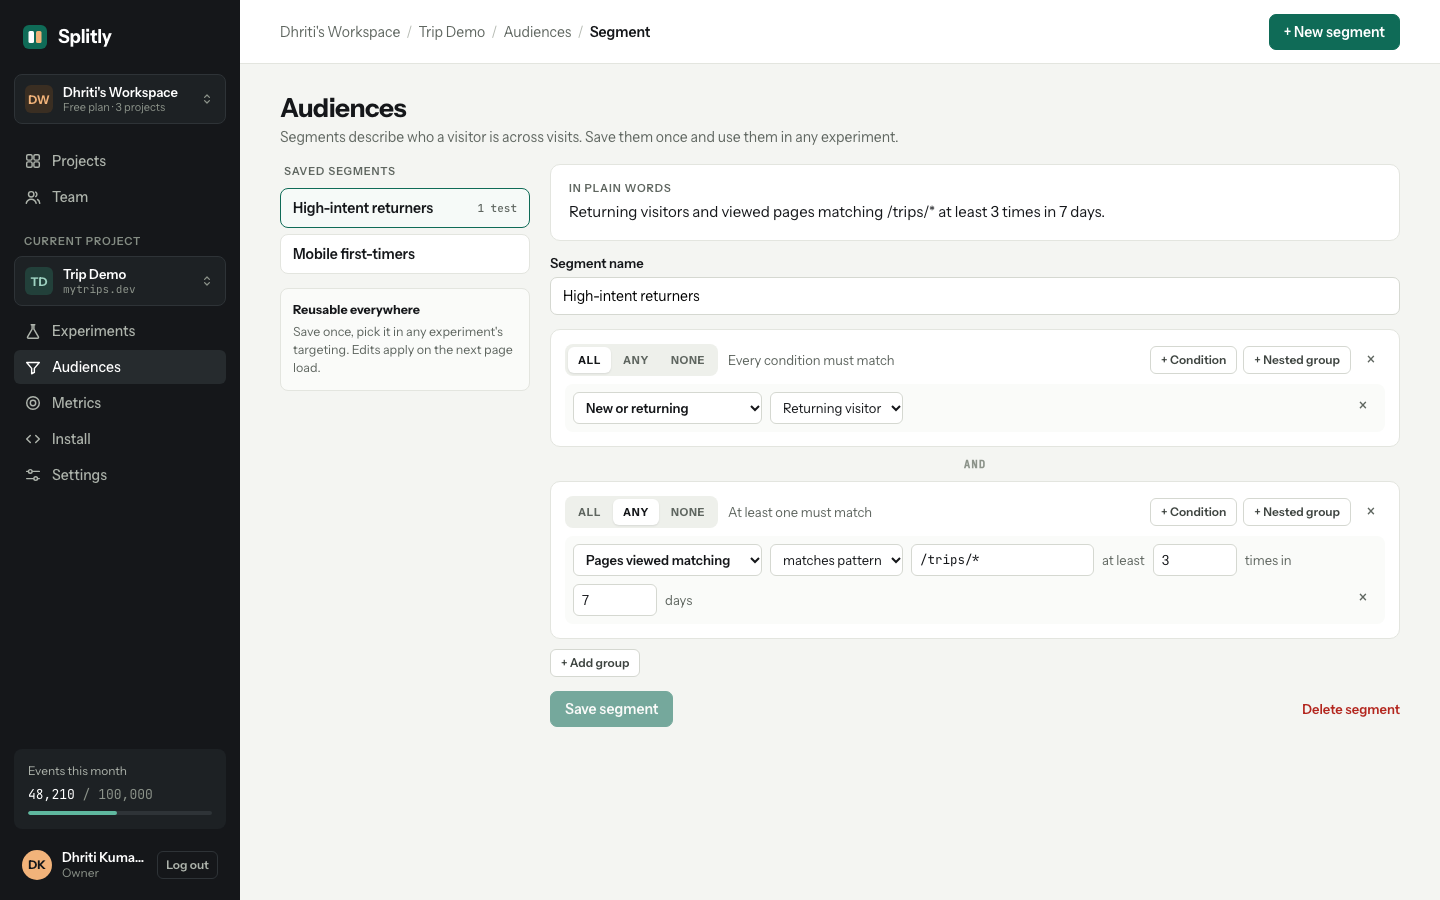
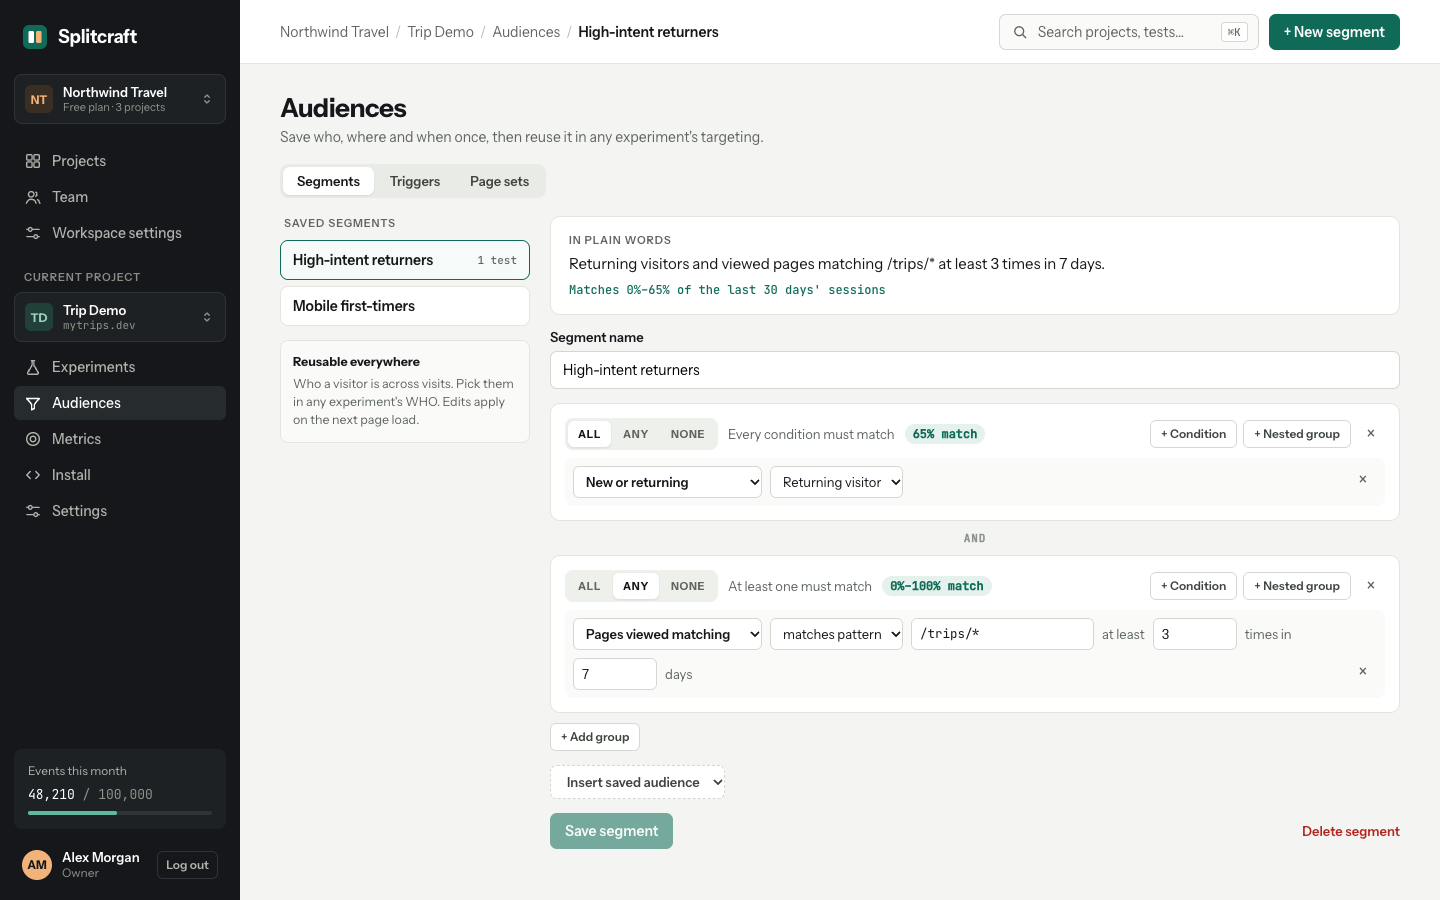
docs: refresh README screenshots, numbers and features

diff --git a/README.md b/README.md
@@ -7,6 +7,10 @@ metrics and read results with honest statistics.
 It is a portfolio project, built to understand how tools like Optimizely and AB Tasty work inside:
 the bucketing, targeting, anti-flicker, tracking, QA mode and statistics are written from scratch.
 
+**Live:** [splitcraft.vercel.app](https://splitcraft.vercel.app) · dashboard at
+[splitcraft-app.vercel.app](https://splitcraft-app.vercel.app) · **developer docs** at
+[splitcraft.vercel.app/docs](https://splitcraft.vercel.app/docs/) (sources in `docs/developer/`).
+
 ![Results for an experiment: verdict, uplift with its 95% range, chance to win, sample ratio check, and the cumulative conversion chart](docs/images/results.png)
 
 ## What it does
@@ -15,14 +19,22 @@ the bucketing, targeting, anti-flicker, tracking, QA mode and statistics are wri
   helpers, templates, a live syntax check and version history. Preview any variant on your site with
   `?splitcraft_force=experiment:variant`, which also opens a QA panel.
 - **Targeting without limits.** WHO (saved segments) / WHERE (URL and element rules) / HOW (session
-  triggers) / WHEN (frequency), built from nested ALL / ANY / NONE groups, with a plain-English summary
-  and a URL tester that runs the SDK's own matcher.
-- **Metrics from an event source.** Click trackers from CSS selectors (with selector health checks),
-  pageview rules and custom JS trackers, measured as unique conversions, totals, sums or value per
-  conversion, with a direction and a counting window.
+  triggers) / WHEN (frequency), built from nested ALL / ANY / NONE groups, with a plain-English summary,
+  saved triggers and page sets, visitor country, reach estimates per group, and a URL tester that runs
+  the SDK's own matcher.
+- **Metrics from an event source.** Clicks (CSS selectors with health checks), pageviews, custom JS,
+  dataLayer events, transactions, browsing and Web Vitals, measured as unique conversions, totals,
+  sums, value per conversion, click-through rate or time to first click, with a direction and a
+  counting window.
 - **Honest statistics.** Two-proportion z-test, Bayesian chance to win, uplift with its 95% range, a
   sample ratio mismatch check on every experiment, a sample-size planner, guardrails, and per-visitor
-  values capped at the 99th percentile. The verdict says in plain words when a result is not ready.
+  values capped at the 99th percentile. The verdict says in plain words when a result is not ready,
+  and a crossed guardrail pauses the experiment automatically.
+- **Teams and workflow.** Workspaces with owners, admins and members, invite links, ⌘K search, recent
+  activity, duplicate / archive / delete, a test page per experiment, and a dashboard that works on
+  phones.
+- **Install your way.** Script tag, Next.js, GTM, or `npm install @splitcraft/sdk` with a
+  `useExperiment` React hook; per-project anti-flicker, SPA and GA4 switches.
 
 |                                                                                   |                                                                                                    |
 | --------------------------------------------------------------------------------- | -------------------------------------------------------------------------------------------------- |
@@ -35,22 +47,26 @@ the bucketing, targeting, anti-flicker, tracking, QA mode and statistics are wri
 ```mermaid
 flowchart LR
   subgraph Site["Customer site"]
-    SDK["SDK (6.6 KB gzip)<br/>visitor id · targeting · bucketing<br/>anti-flicker · apply · tracking"]
+    SDK["SDK (7.9 KB gzip)<br/>visitor id · targeting · bucketing<br/>anti-flicker · apply · tracking"]
     QA["QA panel<br/>(separate 2 KB file,<br/>only with ?splitcraft_force)"]
+    MET["Metrics file<br/>(1.2 KB, browsing + Web Vitals,<br/>only when used)"]
   end
   subgraph Supabase
     CFG["Edge Function<br/>GET /config/:key.json"]
     EVT["Edge Function<br/>POST /events"]
     DB[("Postgres + RLS<br/>projects · experiments · variants<br/>segments · metrics · events")]
-    SQL["SQL functions<br/>results · daily · overview"]
+    SQL["SQL functions<br/>results · guardrails · reach · activity"]
+    CRON["pg_cron<br/>guardrail auto-pause"]
   end
   DASH["Dashboard (React)<br/>Supabase Auth"]
 
   SDK -- "fetch config" --> CFG --> DB
   SDK -- "sendBeacon batches" --> EVT --> DB
   SDK -. "loads when forced" .-> QA
+  SDK -. "loads when used" .-> MET
   DASH -- "anon key + RLS" --> DB
   DASH --> SQL --> DB
+  CRON --> DB
 ```
 
 - **SDK** (`packages/sdk`): reads a visitor id (cookie, localStorage fallback), fetches the project's
@@ -67,10 +83,11 @@ flowchart LR
 
 |                                     |                                                                          |
 | ----------------------------------- | ------------------------------------------------------------------------ |
-| SDK, main bundle                    | **6.9 KB** gzipped (budget 8 KB, checked in CI), no runtime dependencies |
+| SDK, main bundle                    | **7.9 KB** gzipped (budget 8 KB, checked in CI), no runtime dependencies |
 | QA panel                            | 2.0 KB gzipped, a separate file loaded only in QA mode                   |
+| Metrics file (browsing, Web Vitals) | 1.2 KB gzipped, loaded only when a live experiment uses it               |
 | Marketing site, Lighthouse (mobile) | Performance 100 · Accessibility 100 · Best practices 100 · SEO 100       |
-| Tests                               | ~500 across SDK, dashboard, site, database and simulator                 |
+| Tests                               | ~670 across SDK, dashboard, site, database and simulator                 |
 
 The statistics are tested against the worked example in `docs/PRODUCT_SPEC.md` §6: Control
 12,480 / 622 and B 12,380 / 677 give an uplift of +9.7% (95% range −1.4% to +20.8%), a 96% chance to
@@ -151,7 +168,8 @@ docs                product spec, decisions, build plan
 
 Things the designs or spec describe that are not built yet:
 
-- The visitor's country in the config.
-- "Pick on page" and a Chrome preview extension (planned as v1.1).
+- "Pick on page" and a Chrome preview extension (planned as v1.1). Until then, previews on pages
+  without the snippet use an opt-in bookmark (decision #25).
+- SSO (needs a paid Supabase plan).
 
 `docs/DECISIONS.md` explains the choices behind these and the rest of the design.

diff --git a/CLAUDE.md b/CLAUDE.md
@@ -41,5 +41,6 @@ A/B testing platform (portfolio project): a small client-side SDK plus a dashboa
 - `docs/PRODUCT_SPEC.md` — full behaviour spec: IA, experiment steps, targeting, metrics, stats, SDK API, auth, data model.
 - `docs/DECISIONS.md` — why things are the way they are. Don't reverse a decision without asking.
 - `docs/BUILD_PLAN.md` — phase order and the next task.
+- `docs/developer/` — developer docs (published at /docs/ on the marketing site). Update them when behaviour changes.
 - `design/README.md` — screen → route map. `design/screens/*.html` are the exact designs; `design/tokens.css` holds colours and type.
 - Before building any screen, open its file in `design/screens/` and match spacing, sizes and copy.
